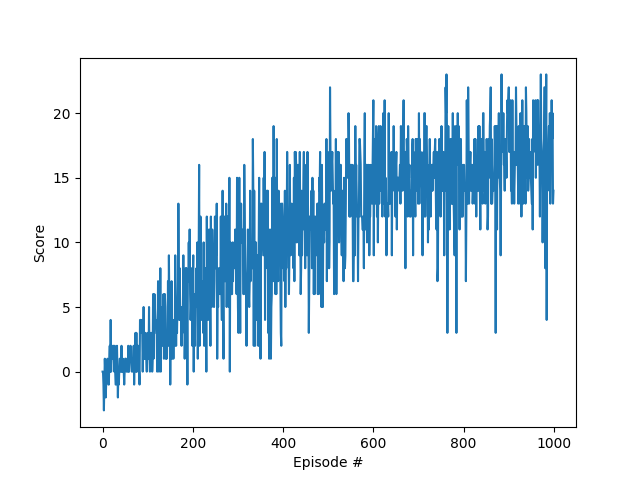
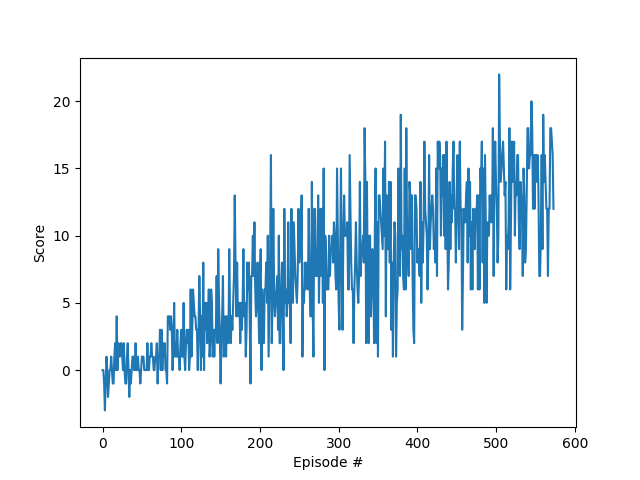
Updated README, weights from a re-run

diff --git a/bananas.py b/bananas.py
@@ -9,7 +9,7 @@ from collections import deque
 import matplotlib.pyplot as plt
 
 # https://github.com/udacity/deep-reinforcement-learning/blob/master/dqn/solution/Deep_Q_Network_Solution.ipynb
-def dqn(n_episodes=1000, max_t=1000, eps_start=1.0, eps_end=0.01, eps_decay=0.995):
+def dqn(n_episodes=1000, max_t=750, eps_start=1.0, eps_end=0.01, eps_decay=0.995):
     """Deep Q-Learning.
 
     Params
@@ -45,7 +45,7 @@ def dqn(n_episodes=1000, max_t=1000, eps_start=1.0, eps_end=0.01, eps_decay=0.99
         if i_episode % 100 == 0:
             print('\rEpisode {}\tAverage Score: {:.2f}'.format(i_episode, np.mean(scores_window)))
             torch.save(agent.qnetwork_local.state_dict(), 'weights.pth')
-        if np.mean(scores_window)>=200.0:
+        if np.mean(scores_window)>=13.0:  # consider done when the target of 13 is reached
             print('\nEnvironment solved in {:d} episodes!\tAverage Score: {:.2f}'.format(i_episode-100, np.mean(scores_window)))
             torch.save(agent.qnetwork_local.state_dict(), 'weights.pth')
             break

diff --git a/README.md b/README.md
@@ -36,6 +36,7 @@ To run the pre-trained agent, execute the following:
 
 ```
 $ python bananas.py --run
+(drltest1) sendai:bananas anuradha$ python bananas.py --run
 Mono path[0] = '/Users/anuradha/ninsei/udacity/bananas/Banana.app/Contents/Resources/Data/Managed'
 Mono config path = '/Users/anuradha/ninsei/udacity/bananas/Banana.app/Contents/MonoBleedingEdge/etc'
 INFO:unityagents:
@@ -64,14 +65,13 @@ States look like: [1.         0.         0.         0.         0.84408134 0.
  0.         1.         0.         0.         0.31969345 0.
  0.        ]
 States have length: 37
-Score: 15.0
+Score: 14.0
 ```
 
 To customize hyperparameters and train the agent, execute the following:
 
 ```
 $ python bananas.py --train
-(drl) sendai:bananas anuradha$ python bananas.py --train
 Mono path[0] = '/Users/anuradha/ninsei/udacity/bananas/Banana.app/Contents/Resources/Data/Managed'
 Mono config path = '/Users/anuradha/ninsei/udacity/bananas/Banana.app/Contents/MonoBleedingEdge/etc'
 INFO:unityagents:
@@ -97,12 +97,26 @@ Episode 200	Average Score: 4.03
 Episode 300	Average Score: 7.21
 Episode 400	Average Score: 9.00
 Episode 500	Average Score: 11.44
-Episode 600	Average Score: 13.50
-Episode 700	Average Score: 15.07
-Episode 800	Average Score: 15.16
-Episode 900	Average Score: 15.90
-Episode 1000	Average Score: 16.83
+Episode 574	Average Score: 13.02
+Environment solved in 474 episodes!	Average Score: 13.02
 ```
+
+# Environment details
+
+The state space has 37 dimensions and consists of:
+* the agent's velocity
+* objects in the agents forward field of view
+
+The agent receives a reward of +1 for a yellow banana, and -1 for blue banana. The goal is therefore to
+maximize the collection of yellow bananas while minimizing / avoiding blue ones.
+
+The action space for the agent consists of the following four possible actions:
+* 0 - walk forward
+* 1 - walk backward
+* 2 - turn left
+* 3 - turn right
+
+The agent must collect a reward of +13 or more to solve the problem.
 
 # Troubleshooting
 
